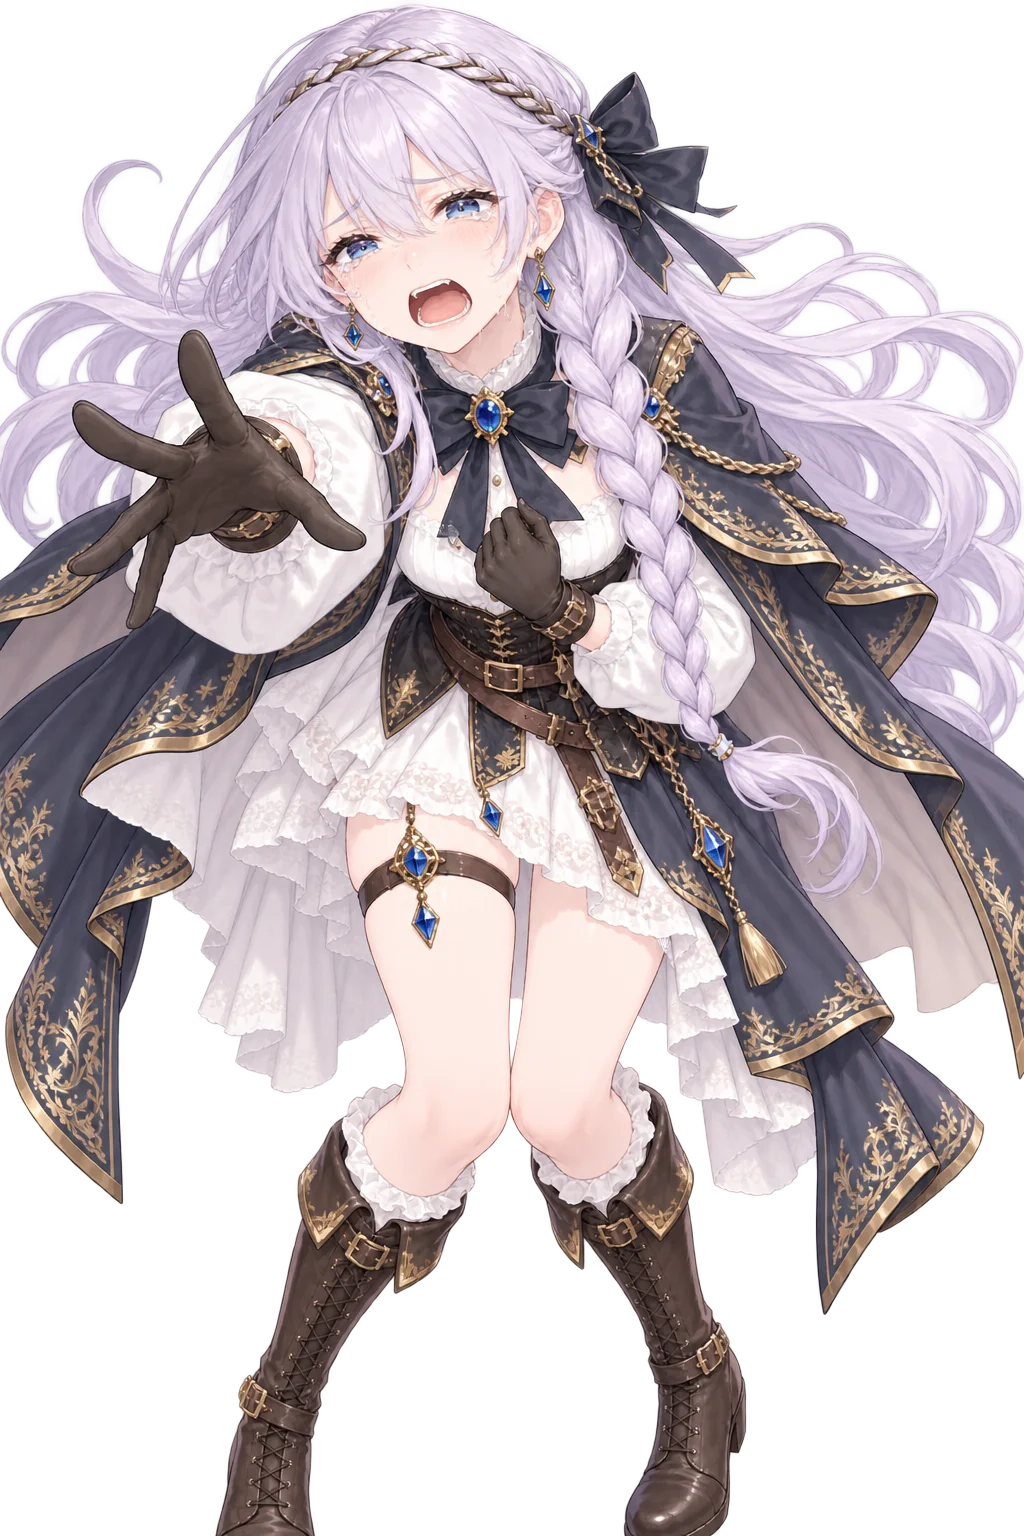
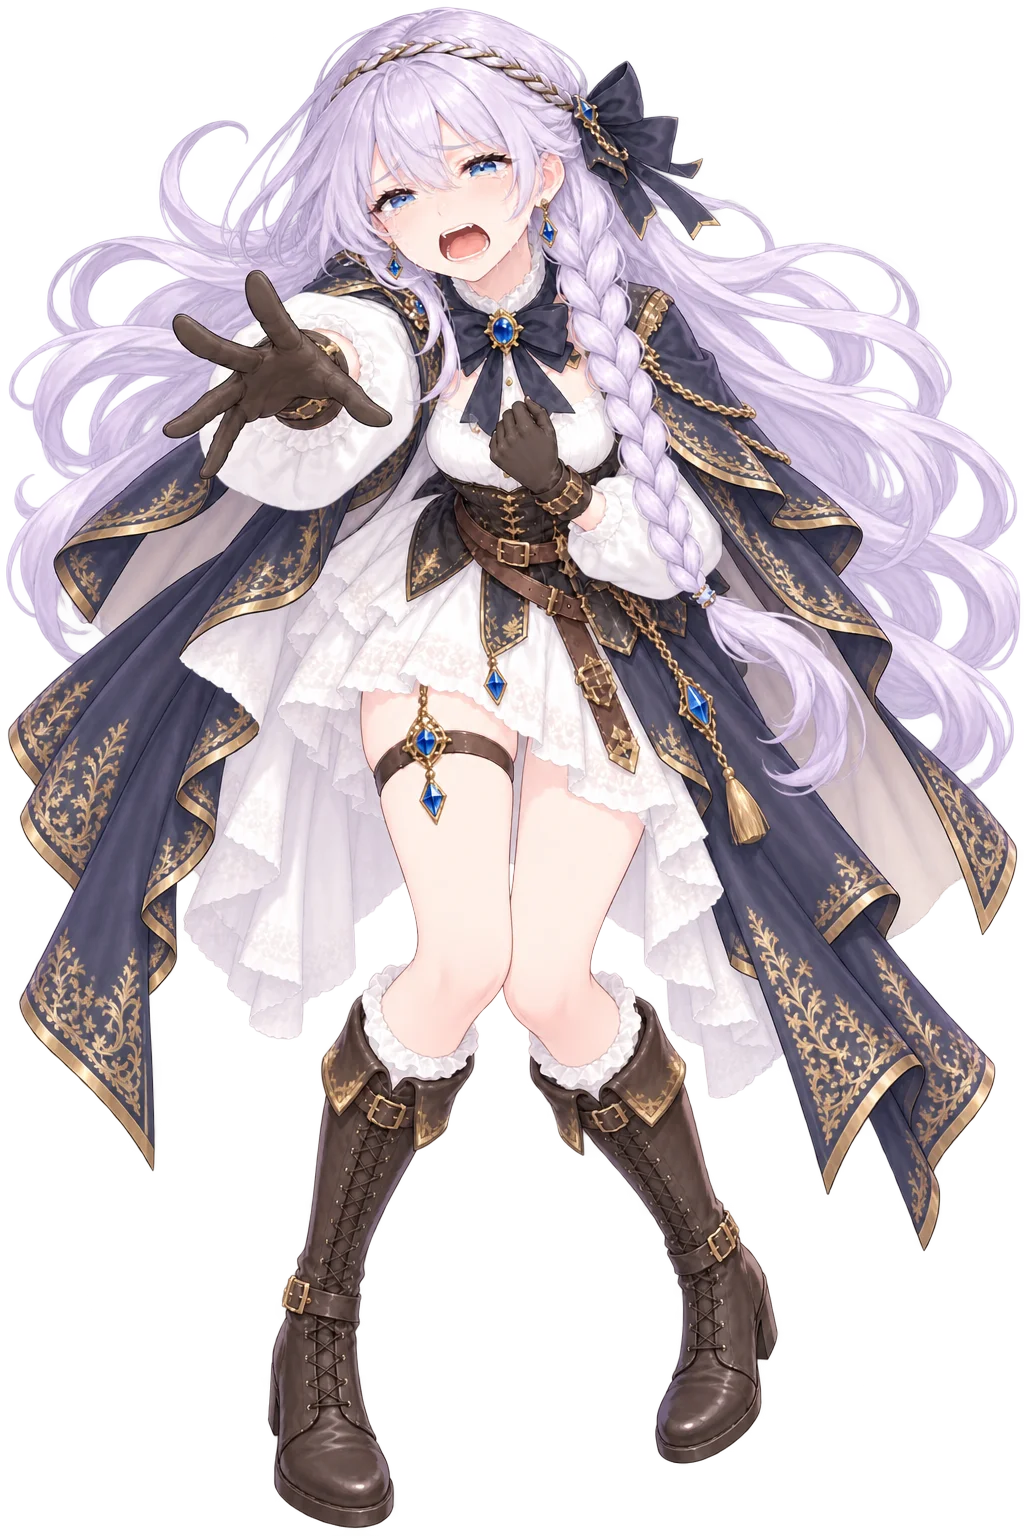
fix(cast): Anya_SI_Crying 換圖——重量取景值，近景修正整組拿掉 ver -637
Ray：「Anya_SI_Crying 有換圖，更新一下」

新圖是**全身**（頭到靴底都在框內，取景與基本立繪一樣），不再是近景 ——
所以 ver -636 加的 `cm:110` ／ `standCm:162` 整組拿掉，回到照量的預設。
取景值重量（§5：換圖一定要重量）：`top` 0→**6**、`bot` 1535→**1527**、
`fx` 0.422→**0.454**。

⚠ 順手修好 VERSION：-633~-636 那幾次的 bump 卡在同一個 python 區塊的 assert
後面沒有執行，HUD 一直顯示 632。現在是 637。

diff --git a/script/speakers.js b/script/speakers.js
@@ -245,7 +245,10 @@ export const ART = {
          （頭頂 y ＝ 頂線 ＋ (最高身高−cm)×每公分像素），所以只調 `cm` 會讓
          「畫得越近 → 頭擺得越低」——正好相反。`standCm` 是**站姿身高**，
          只管頭頂高度、不進縮放：近景給她真正的 162，頭就會回到該在的位置。 */
-    crying:   { src:'resources/SI/Anya_SI_Crying.webp',    top:0,  bot:1535, fx:0.422, cm:110, standCm:162 },
+    /* ⚠ ver -637 換過圖：新的是**全身**（頭到靴底都在框內，取景與基本立繪一樣）——
+       所以 `cm`／`standCm` 的近景修正整組拿掉，回到照量的預設。
+       §5：換圖一定要重量取景值，這一組是重量的。 */
+    crying:   { src:'resources/SI/Anya_SI_Crying.webp',    top:6,  bot:1527, fx:0.454 },
     desperate:{ src:'resources/SI/Anya_SI_Desperate.webp', top:13, bot:1535, fx:0.402, cm:110, standCm:162 },
     /* ⚠⚠ `sobbing` 是**裁到膝蓋**的近景，不是全身（§6.5：半身圖照量 alpha 上下緣
        會把人放大好幾倍）。畫面上看得到的大約是「頭頂→膝」＝身高的 75%，

diff --git a/config.js b/config.js
@@ -21,7 +21,7 @@ import { ART } from './script/speakers.js';
  *     以為是快取卡住 —— 版本號不動就等於沒有版本號）。
  *  ⚠ 它同時是**暖開機戳記的鑰匙**（main.js 的 `WARM_BOOT`）：版本一變，
  *    上一版的戳記就失效 → 下一次開機重跑完整讀取。那正是改版後該有的行為。 */
-export const VERSION = 'ver 2026.08.31-632';
+export const VERSION = 'ver 2026.08.31-637';
 
 export const GAME_CONFIG = {
 
